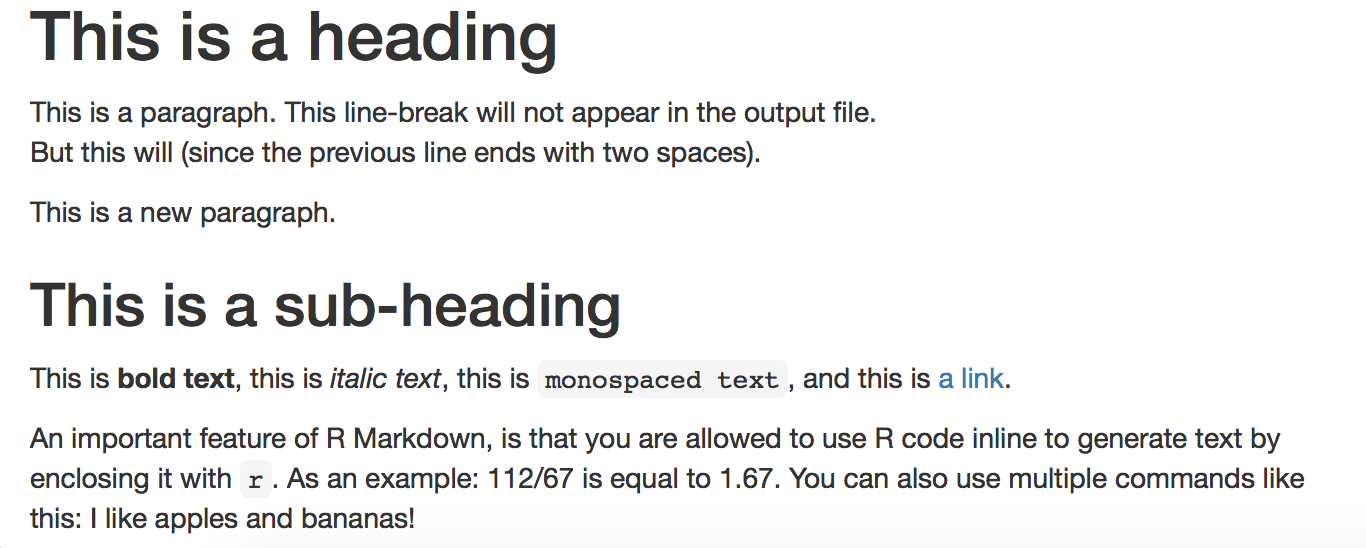
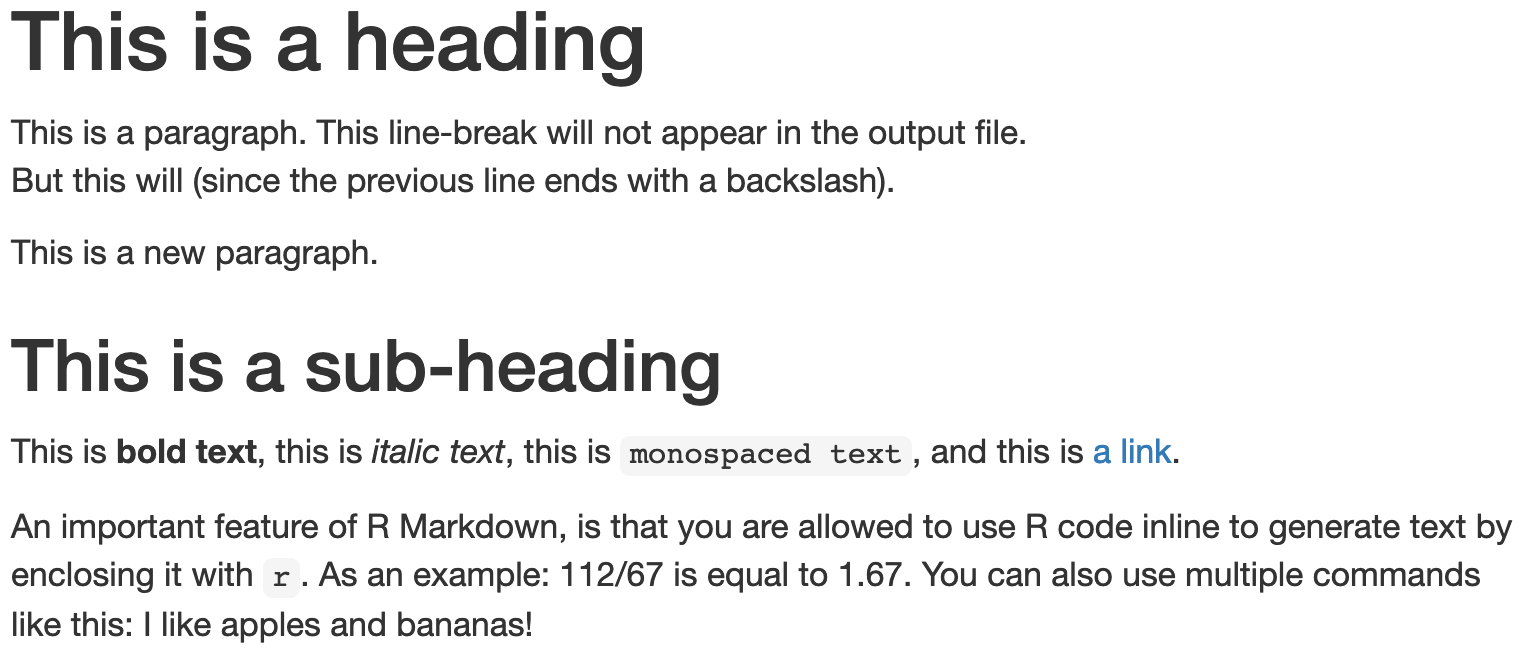
Prettify and clarify tutorial text

diff --git a/docs/rmarkdown.md b/docs/rmarkdown.md
@@ -38,10 +38,10 @@ Bullet list:
 ```
 
 A markdown document can be converted to other formats, such as HTML or PDF, for
-viewing in a browser or a PDF reader (the page you are reading right now is
-written in markdown). Markdown is somewhat ill-defined, and as a consequence of
-that there exists many implementations and extensions (although they share most
-of the syntax). *R Markdown* is one such implementation/extension.
+viewing in a browser or a PDF reader; the page you are reading right now is
+written in markdown. Markdown is somewhat ill-defined, and as a consequence of
+that there exists many implementations and extensions, although they share most
+of the syntax. *R Markdown* is one such implementation/extension.
 
 R Markdown documents can be used both to save and execute code (with a focus on
 R) and to generate reports in various formats. This is done by mixing markdown
@@ -61,10 +61,10 @@ If you want to read more, here are some useful resources:
   at [RStudio.com](http://rmarkdown.rstudio.com/lesson-1.html).
 * [R Markdown cheat sheet](
   https://www.rstudio.com/wp-content/uploads/2016/03/rmarkdown-cheatsheet-2.0.pdf)
-  (also available from Help > Cheatsheets in RStudio)
+  (also available from Help --> Cheatsheets in RStudio)
 * [R Markdown reference guide](
   https://www.rstudio.com/wp-content/uploads/2015/03/rmarkdown-reference.pdf)
-  (also available from Help > Cheatsheets in RStudio)
+  (also available from Help --> Cheatsheets in RStudio)
 
 ## Setup
 
@@ -83,19 +83,17 @@ If you don't already have R or RStudio, you will need to install them:
     these software (if you haven't done so already) when doing this tutorial.
 
 This tutorial depends on files from the course GitHub repo. Take a look at the
-[intro](tutorial_intro.md) for instructions on how to set it up if you haven't
-done so already. Then open up RStudio and set your working directory to
+[introduction](tutorial_intro.md) for instructions on how to set it up if you
+haven't done so already. Then open up RStudio and set your working directory to
 `workshop-reproducible-research/rmarkdown`.
 
 ## The basics
 
 * Start RStudio
-* Select: File > New File > R Markdown
-* You might get prompted to install a few required packages. Do that in such
-  case!
-* In the window that opens, select: Document and HTML (should be default), and
-  click *Ok*.
-* This will open a template R Markdown document for you
+* Select: File --> New File --> R Markdown
+* You might get prompted to install a few required packages - do so!
+* In the window that opens, select: *Document and HTML* (should be default), and
+  click *Ok*. This will open a template R Markdown document for you
 
 On the top is a so called YAML header:
 
@@ -115,21 +113,21 @@ output:
 Here we can specify settings for the document, like the title and the output
 format.
 
-* Change the title to "My first R Markdown document".
+* Change the title to "My first R Markdown document"
 * Now, read through the rest of the template R Markdown document to get
-  a feeling for the format.
+  a feeling for the format
 
 As you can see, there are essentially three types of components in an
 R Markdown document:
 
 1. Text (written in R Markdown)
 
-2. Code chunks (written in R, or another supported language).
+2. Code chunks (written in R, or another supported language)
 
 3. The YAML header
 
 Let's dig deeper into each of these in the following sections! But first, just
-to get the flavor for things to come: press the little Knit-button located at
+to get the flavor for things to come: press the little *Knit*-button located at
 the top of the text editor panel in RStudio. This will prompt you to save the
 Rmd file (do that), and generate the output file (an HTML file in this case).
 It will also open up a preview of this file for you.
@@ -142,8 +140,8 @@ Some commonly used formatting written in markdown is shown below:
 # This is a heading
 
 This is a paragraph.
-This line-break will not appear in the output file.  
-But this will (since the previous line ends with two spaces).
+This line-break will not appear in the output file.\
+But this will (since the previous line ends with a backslash).
 
 This is a new paragraph.
 
@@ -152,10 +150,10 @@ This is a new paragraph.
 This is **bold text**, this is *italic text*, this is `monospaced text`,
 and this is [a link](http://rmarkdown.rstudio.com/lesson-1.html).
 
-An important feature of R Markdown, is that you are allowed to use R code
+An important feature of R Markdown is that you are allowed to use R code
 inline to generate text by enclosing it with `r `. As an example: 112/67 is
 equal to `r round(112/67, 2)`. You can also use multiple commands like this:
-I like `r fruits <- c("apples","bananas"); paste(fruits, collapse=" and ")`!
+I like `r fruits <- c("apples","bananas"); paste(fruits, collapse = " and ")`!
 ```
 
 The above markdown would generate something like this:
@@ -163,15 +161,14 @@ The above markdown would generate something like this:
 > ![](images/markdown_example.png)
 
 Instead of reiterating information here, take a look on the first page (only
-the first page!) of this [reference](
-https://www.rstudio.com/wp-content/uploads/2015/03/rmarkdown-reference.pdf).
+the first page!) of this [reference]( https://www.rstudio.com/wp-content/uploads/2015/03/rmarkdown-reference.pdf).
 This will show you how to write more stuff in markdown and how it will be
 displayed once the markdown document is converted to an output file (*e.g.*
 HTML or PDF). An even more complete guide is available
 [here](http://rmarkdown.rstudio.com/authoring_pandoc_markdown.html).
 
 * Try out some of the markdown described above (and in the links) in your
-  template R Markdown document! Press Knit to see the effect of your edits.
+  template R Markdown document! Press *Knit* to see the effect of your changes.
   Don't worry about the code chunks just yet, we'll come to that in a second.
 
 !!! note "Quick recap"
@@ -185,24 +182,17 @@ the last code chunk in the template R Markdown document that you just created,
 as an example:
 
 ````
-```{r pressure, echo = FALSE}
+```{r Plot pressure data, echo = FALSE}
 plot(pressure)
 ```
 ````
 
 The R code is surrounded by: ` ```{r}` and ` ``` `. The `r` indicates that the
 code chunk contains R code (it is possible to add code chunks using other
-languages, *e.g.* Python). After that comes an optional chunk name, `pressure`
-in this case (this can be used to reference the code chunk as well as alleviate
-debugging). Last comes chunk options, separated by commas (in this case there
-is only one option: `echo = FALSE`).
-
-!!! note
-    Note that the code chunk name `pressure` has nothing to do with the code
-    `plot(pressure)`. In the latter case, `pressure` is a default R dataframe
-    that is used in examples. The chunk name happened to be set to the string
-    `pressure` as well, but could just as well have been called something else,
-    *e.g.* `plot_pressure_data`.
+languages, *e.g.* Python). After that comes an optional chunk name, `Plot
+pressure data` in this case (this can be used to reference the code chunk as
+well as alleviate debugging). Last comes chunk options, separated by commas (in
+this case there is only one option: `echo = FALSE`).
 
 Below are listed some useful chunk options related to evaluating and displaying
 code chunks in the final file:
@@ -226,8 +216,8 @@ summary(cars)
 ```
 ````
 
-* Guess how this will affect the final file. Press Knit and look at the
-  generated file. Were you right?
+* How do you think this will affect the rendered file? Press *Knit* and check if
+  you were right.
 * Remove the `echo = FALSE` option and add `eval = FALSE` instead:
 
 ````
@@ -236,8 +226,8 @@ summary(cars)
 ```
 ````
 
-* Guess how this will affect the final file. Press Knit and look at the
-  generated file. Were you right?
+* How do you think this will affect the rendered file? Press *Knit* and check if
+  you were right.
 * Remove the `eval = FALSE` option and add `include = FALSE` instead:
 
 ````
@@ -255,32 +245,32 @@ There are also some chunk options related to plots:
 | `fig.cap = "This is a plot."` | Adds a figure caption.
 
 * Go back to your template R Markdown document in RStudio and locate the
-  `pressure` code chunk.
+  `Plot pressure data` code chunk.
 * Add the `fig.width` and `fig.height` options as below:
 
 ````
-```{r pressure, echo = FALSE, fig.width = 6, fig.height = 4}
+```{r Plot pressure data, echo = FALSE, fig.width = 6, fig.height = 4}
 plot(pressure)
 ```
 ````
 
-* Press Knit and look at the output. Can you notice any difference?
+* Press *Knit* and look at the output. Can you see any differences?
 * Now add a whole new code chunk to the end of the document. Give it the name
-  `pressure2` (code chunks have to have unique names, or no name). Add the
-  `fig.width` and `out.width` options like this:
+  `Plot pressure again` (code chunks have to have unique names, or no
+  name). Add the `fig.width` and `out.width` options like this:
 
 ````
-```{r pressure2, echo = FALSE, fig.width = 9, out.width = "560px"}
+```{r Plot pressure again, echo = FALSE, fig.width = 9, out.width = "560px"}
 plot(pressure)
 ```
 ````
 
-* Press Knit and look at the output. Notice the difference between the two
+* Press *Knit* and look at the output. Notice the difference between the two
   plots? In the second chunk we have first plotted a figure that is a fair bit
   larger (9 inches wide) than that in the first chunk. Next we have down-sized
-  it in the final output, using the `out.width` option. (Here we need to use
+  it in the final output, using the `out.width` option (where we need to use
   a size metric recognized by the output format, in this case "560px" which
-  works for HTML.)
+  works for HTML).
 
 Have you noticed the first chunk?
 
@@ -337,7 +327,7 @@ automatically compiled from the section headers (marked by #).
 * A setting that works for HTML output is `toc_float: true`. Add that to your
   document (same indentation level as `toc: true`) and knit. What happened?
 * In the same way, add the option `number_sections: true`. What happened?
-* Think it looks weird with sections numbered with 0, *e.g.* 0.1? That is
+* Do you think it looks weird with sections numbered with 0, *e.g.* 0.1? That is
   because the document does not contain any level-1-header. Add a header using
   only one `#` at the top of the document, just after the `setup` chunk. Knit
   and see what happens!
@@ -361,19 +351,19 @@ params:
     data: cars
     color: blue
 ---
-
 ```
 
 * So now we have two parameters that we can use in the code! Modify the
-  `pressure` code chunk so that it looks like this:
+  `Plot pressure data` code chunk so that it looks like this:
 
 ````
-```{r pressure, fig.width = 6, fig.height = 4}
+```{r Plot pressure data, fig.width = 6, fig.height = 4}
 plot(get(params$data), col = params$color)
 ```
 ````
 
-This will plot the dataset `cars` using the color `blue`.
+This will plot the dataset `cars` using the color `blue`, based on the
+parameters we set in the YAML header.
 
 * Knit and see what happens!
 
@@ -401,7 +391,7 @@ and some YAML settings are specific for the given output format chosen.
 
 You can knit/render reports in several different ways:
 
-- Pressing the Knit button in RStudio (as we have done this far)
+- Pressing the *Knit* button in RStudio (as we have done this far)
 - Running the R command `render`: to Knit the file `my_file.Rmd` run
   `render("my_file.Rmd")` in the R console.
 - Running from the command line: `R -e 'rmarkdown::render("my_file.Rmd")'`
@@ -410,40 +400,40 @@ Using the `render` command, we can also set YAML header options and change
 defaults (*i.e.* override those specified in the R Markdown document itself).
 Here are a few useful arguments (see `?rmarkdown::render` for a full list):
 
-- `output_format` - change output format, *e.g.* `html_document` or
-  `pdf_document`.
-- `output_file` and `output_dir` - change directory and file name of the
+- `output_format`: change output format, *e.g.* `html_document` or
+  `pdf_document`
+- `output_file` and `output_dir`: change directory and file name of the
   generated report file (defaults to the same name and directory as the .Rmd
-  file).
-- `params` - change parameter defaults. Note that only parameters already listed
-  in the YAML header can be set, no new parameters can be defined.
+  file)
+- `params`: change parameter defaults. Note that only parameters already listed
+  in the YAML header can be set, no new parameters can be defined
 
 Try to use the `render` command to knit your template R Markdown document and
 set the two parameters `data` and `color`. Hint: the `params` argument should
-be a list, so *e.g.*:
+be a list, *e.g.*:
 
 ```
-rmarkdown::render("my_file.Rmd", params=list(data="cars", color="green"))
+rmarkdown::render("my_file.Rmd", params = list(data = "cars", color = "green"))
 ```
 
 ### RStudio and R Markdown
 
 You might already have noticed that you can run code chunks directly in RStudio:
 
-- Place the cursor on an R command and press `CTRL + Enter` (Windows) or `Cmd
-  + Enter` (Mac) to run that line in R.
+- Place the cursor on an R command and press `CTRL + Enter` (Windows) or
+  `Cmd + Enter` (Mac) to run that line in R.
 - Select several R command lines and use the same keyboard shortcut as above to
   run those lines.
 - To the right in each chunk there are two buttons; one for running the code in
   all chunks above the current chunk and one for running the code in the current
-  chunk (depending on your layout, otherwise you can find the options in the Run
-  drop-down).
+  chunk (depending on your layout, otherwise you can find the options in the
+  *Run* drop-down).
 - Depending on your settings, the output of the chunk code will be displayed
-  inline in the Rmd document, or in RStudios Console and Plot panels. To
-  customize this setting, press the cog-wheel next to the Knit button and select
-  either "Chunk Output Inline" or "Chunk Output in Console".
+  inline in the Rmd document, or in RStudio's *Console* and *Plot* panels. To
+  customize this setting, press the cog-wheel next to the *Knit* button and
+  select either "Chunk Output Inline" or "Chunk Output in Console".
 * You can easily insert an empty chunk in your Rmd document in RStudio by
-  pressing Insert > R.
+  pressing *Insert* --> *R*.
 * In the top right in the editor panel in RStudio there is a button to toggle
   the document outline. By making that visible you can click and jump between
   sections (headers and named code chunks) in your R Markdown document.
@@ -564,16 +554,16 @@ each for a specific table or figure. Have a quick look at the code and see if
 you can figure out what it does, but don't worry if you can't understand
 everything.
 
-Finally, there is a Reproducibility section which describes how the results in
+Finally, there is a *Reproducibility* section which describes how the results in
 the report can be reproduced. The `session_info` chunk prints information
 regarding R version and which packages and versions that are used. We highly
-encourage you to include this chunk in all your R Markdown reports. It's an
+encourage you to include this chunk in all your R Markdown reports: it's an
 effortless way to increase reproducibility.
 
 ### Rendering options and paths
 
 * Now that you have had a look at the R Markdown document, it is time to Knit!
-  We will do this from the R terminal (rather than pressing Knit).
+  We will do this from the R terminal (rather than pressing *Knit*).
 
 ```r
 rmarkdown::render("code/supplementary_material.Rmd", output_dir = "results")
@@ -630,8 +620,8 @@ knitr::kable(d)
   use the following:
 
 ```r
-knitr::kable(d, caption="Sample info",
-      col.names=c("SRR", "GEO", "Strain", "Treatment"))
+knitr::kable(d, caption = "Sample info",
+             col.names = c("SRR", "GEO", "Strain", "Treatment"))
 ```
 
 * Knit and check the result.
@@ -654,9 +644,8 @@ fig.cap = "Counting statistics per sample, in terms of read counts for genes
   can try out the possibility to add R code to generate the legend:
 
 ```r
-fig.cap = paste("Expression (log-10 counts) of genes with at least ",
-                max_cutoff, " counts in one sample and a CV>", cv_cutoff, ".",
-                sep = "")
+fig.cap = paste0("Expression (log-10 counts) of genes with at least ",
+                 max_cutoff, " counts in one sample and a CV>", cv_cutoff, ".")
 ```
 
 This will use the `cv_cutoff` and `max_cutoff` variables to ensure that the
@@ -670,10 +659,11 @@ legend.
 You may have noticed that the figures (probably) aren't positioned relative to
 the text exactly where you put the code chunks? This is a feature of the LaTeX
 rendering to PDF, where it tries to align tables and figures in an aestetically
-pleasing and efficient way. These are called "floats" in LaTeX, and can be
-a source of frustration. If you want to force the floats to be positioned in
-the order and context they appear in the text, you can use the following tweak.
-Note that this is only an issue with rendering to PDF, not with *e.g.* HTML.
+pleasing and efficient way. These are called "floats" in LaTeX, and are highly
+useful when writing reports or books, but can sometimes make figures appear
+where you don't expect them to. If you want to force the floats to be positioned
+in the order and context they appear in the text, you can use the following
+tweak. Note that this is only an issue with rendering to PDF, not with HTML.
 
 * Add the option `fig.pos = 'H'` to `opts_chunk` in the `setup` chunk (note the
   capital "H"). This will force figures to appear "here". Add the following
